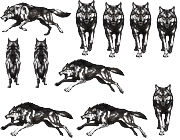
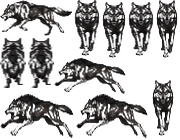
fix(wolf): fit HD wolf frames to original silhouettes; add Gemini animation spec
Claude-Session: https://claude.ai/code/session_01DrFoPcc44FDsca7BfrWMBD

diff --git a/tools/fit_hd_wolf_to_engine.py b/tools/fit_hd_wolf_to_engine.py
@@ -1,0 +1,96 @@
+"""Re-fit the HD wolf sheets (270/271/272 + species variants) to the engine's
+original frame silhouettes.
+
+integrate_hd_wolf.py pasted ONE painted pose into every frame with an
+aspect-preserving fit, so (a) every walk/attack frame looked identical (no
+animation) and (b) the wolf ended up ~15-20% smaller than the original
+because the painting's aspect ratio did not match the frame box.
+
+For each frame rect this script takes the current HD content and, stretches
+it to the bounding box of the ORIGINAL pixel-art frame (root NNN.png, 2x), so the HD
+wolf is exactly as large as the original. NOTE: this fixes size only; real per-frame
+poses (legs) must come from newly painted frames (see wolf spec). Run from the repo root; idempotent only on a
+pristine copy of the Gemini sheets (it re-fits, so do not run twice on
+already-fitted output unless you want a second smoothing pass).
+"""
+import os
+import numpy as np
+from PIL import Image
+
+R = 'app/src/midlet/resources/'
+HD = R + 'hd/'
+THR = 20
+
+RECTS = {
+    '270': {
+        0: (0, 0, 74, 42), 8: (76, 56, 70, 42), 10: (0, 102, 74, 40), 11: (76, 102, 72, 42),
+        1: (76, 2, 26, 52), 2: (104, 0, 22, 54), 3: (128, 0, 22, 56), 4: (152, 0, 22, 56),
+        5: (0, 46, 24, 46), 6: (26, 44, 24, 56), 7: (52, 44, 22, 52), 9: (152, 58, 22, 54),
+    },
+    '271': {
+        0: (0, 0, 72, 36), 7: (54, 58, 72, 36), 8: (0, 94, 74, 44), 9: (76, 94, 72, 44),
+        1: (74, 0, 26, 56), 2: (102, 2, 24, 56), 3: (128, 2, 26, 56), 4: (156, 0, 22, 58),
+        10: (152, 80, 22, 56), 5: (0, 38, 26, 50), 6: (28, 38, 26, 50),
+    },
+    '272': {0: (0, 0, 64, 28)},
+}
+SUFFIXES = ['', '_t0', '_t8', '_t9', '_t10']
+
+
+def col_extent(alpha):
+    """Per-column (top, bottom+1) of opaque pixels; None for empty columns."""
+    m = alpha > THR
+    out = []
+    for x in range(m.shape[1]):
+        ys = np.nonzero(m[:, x])[0]
+        out.append((ys[0], ys[-1] + 1) if len(ys) else None)
+    return out
+
+
+def smooth(ext, k=1):
+    res = []
+    for i, e in enumerate(ext):
+        if e is None:
+            res.append(None)
+            continue
+        nb = [ext[j] for j in range(max(0, i - k), min(len(ext), i + k + 1)) if ext[j]]
+        res.append((np.mean([n[0] for n in nb]), np.mean([n[1] for n in nb])))
+    return res
+
+
+def refit(src, tgt_alpha):
+    """Stretch src content to the bounding box of the original frame's silhouette."""
+    H, W = tgt_alpha.shape
+    ys, xs = np.nonzero(tgt_alpha > THR)
+    out = Image.new('RGBA', (W, H), (0, 0, 0, 0))
+    if not len(xs):
+        return out
+    x0, x1, y0, y1 = xs.min(), xs.max() + 1, ys.min(), ys.max() + 1
+    out.paste(src.resize((x1 - x0, y1 - y0), Image.Resampling.LANCZOS), (x0, y0))
+    return out
+
+
+def main():
+    for n, rects in RECTS.items():
+        orig = Image.open(R + n + '.png').convert('RGBA')
+        orig = orig.resize((orig.width * 2, orig.height * 2), Image.NEAREST)
+        oa = np.asarray(orig)[:, :, 3]
+        for suf in SUFFIXES:
+            path = f'{HD}{n}{suf}.png'
+            if not os.path.exists(path):
+                continue
+            sheet = Image.open(path).convert('RGBA')
+            res = Image.new('RGBA', sheet.size, (0, 0, 0, 0))
+            for k, (x, y, w, h) in rects.items():
+                crop = sheet.crop((x, y, x + w, y + h))
+                bb = crop.getchannel('A').point(lambda v: 255 if v > THR else 0).getbbox()
+                if not bb:
+                    continue
+                fit = refit(crop.crop(bb), oa[y:y + h, x:x + w])
+                res.paste(fit, (x, y))
+            res.save(path)
+            print('refit', path)
+
+
+if __name__ == '__main__':
+    main()

diff --git a/docs/wolf-hd-gemini-spec.md b/docs/wolf-hd-gemini-spec.md
@@ -1,0 +1,23 @@
+# ТЗ для Gemini: HD-волк (анимация)
+
+## Что было не так
+`tools/integrate_hd_wolf.py` вставлял ОДНУ нарисованную позу в каждый кадр (side/front/rear), только
+масштабируя. Поэтому все кадры бега/атаки одинаковые -> анимации нет, а из-за пропорций (волк на
+картинке стройнее, чем 74x42) он получался на ~15-20% меньше оригинала.
+Размер уже исправлен `tools/fit_hd_wolf_to_engine.py` (растяжка по силуэту оригинала). Анимацию
+может вернуть только набор РАЗНЫХ кадров.
+
+## Что нужно нарисовать (один и тот же волк, один стиль, фон сплошной одного цвета, как раньше)
+Размеры кадров в итоговом HD-листе (в пикселях; оригинал x2). Волк должен занимать кадр ПОЛНОСТЬЮ
+(касаться верха/низа/боков рамки, как оригинал), лапы внизу кадра, ориентир - нос слева у side-кадров.
+
+Лист 270 (ходьба/бег, 176x144), 12 разных кадров:
+- side (4 фазы шага): #0 (74x42) вытянутый прыжок, #8 (70x42) лапы собраны, #10 (74x40) вынос лап вперёд, #11 (72x42) толчок.
+- front (4): #1 26x52, #2 22x54, #3 22x56, #4 22x56 - спереди, шаг левой/правой, лёгкое покачивание головы.
+- rear (4): #5 24x46, #6 24x56, #7 22x52, #9 22x54 - сзади, чередование лап.
+Лист 271 (атака, 180x140), 11 кадров: side #0 72x36 замах, #7 72x36 бросок, #8 74x44 укус, #9 72x44 отход;
+front #1 26x56, #2 24x56, #3 26x56, #4 22x58, #10 22x56; rear #5, #6 26x50.
+Лист 272 (труп): один кадр 64x28.
+Главное: соседние кадры одного вида ДОЛЖНЫ отличаться позой лап/корпуса (в оригинале видно по
+`app/src/midlet/resources/270.png`). Лучше всего рисовать, глядя на оригинал кадр-в-кадр.
+Окраска (молодой/вожак/варг) делается скриптом, рисовать только базового волка.
